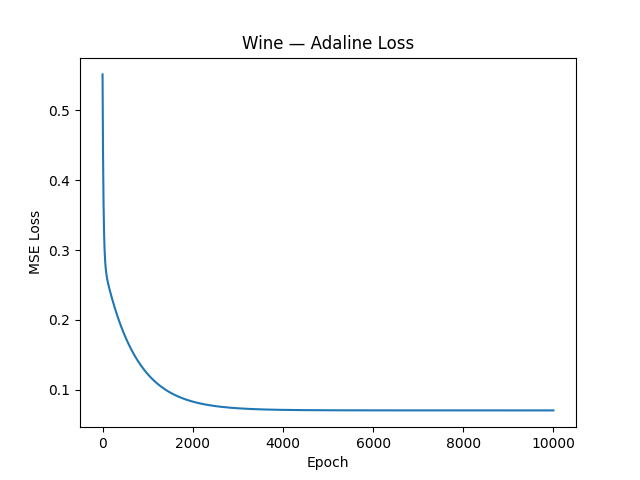
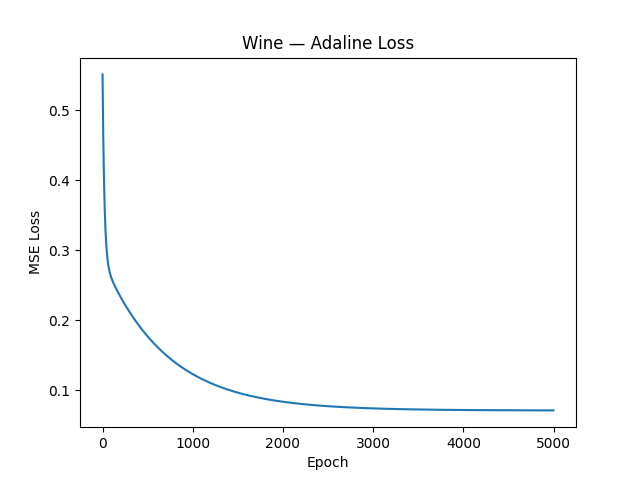
fixed stability issues

diff --git a/Assignment1/compare_losses.py b/Assignment1/compare_losses.py
@@ -17,15 +17,15 @@ This plots the adaline and logistic regression
 
 # wine data sets 
 X_wine, y_wine = load_wine_data()
-ada_wine = ModifiedAdalineGD(eta=0.01, n_iter=10000, random_state=1)
+ada_wine = ModifiedAdalineGD(eta=0.01, n_iter=5000, random_state=1)
 ada_wine.fit(X_wine, y_wine)
-log_wine = ModifiedLogisticRegressionGD(eta=0.01, n_iter=10000, random_state=1)
+log_wine = ModifiedLogisticRegressionGD(eta=0.01, n_iter=5000, random_state=1)
 log_wine.fit(X_wine, y_wine)
 
 X_iris, y_iris = load_iris_data()
-ada_iris = ModifiedAdalineGD(eta=0.01, n_iter=10000, random_state=1)
+ada_iris = ModifiedAdalineGD(eta=0.01, n_iter=5000, random_state=1)
 ada_iris.fit(X_iris, y_iris)
-log_iris = ModifiedLogisticRegressionGD(eta=0.01, n_iter=10000, random_state=1)
+log_iris = ModifiedLogisticRegressionGD(eta=0.01, n_iter=5000, random_state=1)
 log_iris.fit(X_iris, y_iris)
 
 X_cerberus, y_cerberus = c.load_iris_all()
@@ -41,11 +41,11 @@ class_names = np.array(["Iris-setosa", "Iris-versicolor", "Iris-virginica"])
 preds = c.predict_multiclass(X_cerberus, models, class_names)
 
 # Logistic regression SGD
-log_wine_sgd = LogisticRegressionSGD(eta=0.01, n_iter=10000, random_state=1)
+log_wine_sgd = LogisticRegressionSGD(eta=0.01, n_iter=5000, random_state=1)
 log_wine_sgd.fit(X_wine, y_wine)
 
 # Logistic regression mini-batch SGD
-log_wine_mini_sgd = LogisticMiniBatchSGD(eta=0.01, n_iter=10000, random_state=1)
+log_wine_mini_sgd = LogisticMiniBatchSGD(eta=0.01, n_iter=5000, random_state=1)
 log_wine_mini_sgd.fit(X_wine, y_wine)
 
 

diff --git a/Assignment1/logisticMiniBatchSGD.py b/Assignment1/logisticMiniBatchSGD.py
@@ -65,6 +65,9 @@ class LogisticMiniBatchSGD:
             for j in range(X.shape[0] // batch_size):
                 net_input = self.net_input(parsed[j])
                 output = self.activation(net_input)
+                # numerical stability fix
+                output = np.clip(output, 1e-10, 1 - 1e-10)
+
                 errors = (yparsed[j] - output)
                 self.w_ += self.eta * parsed[j].T.dot(errors) / parsed[j].shape[0]
                 loss = (-yparsed[j].dot(np.log(output)) - (1 - yparsed[j]).dot(np.log(1 - output))) / parsed[j].shape[0]
@@ -76,6 +79,9 @@ class LogisticMiniBatchSGD:
                 # last batch
                 net_input = self.net_input(last[0])
                 output = self.activation(net_input)
+                # numerical stability fix
+                output = np.clip(output, 1e-10, 1 - 1e-10)
+
                 errors = (ylast[0] - output)
                 self.w_ += self.eta * last[0].T.dot(errors) / last[0].shape[0]
                 loss = (-ylast[0].dot(np.log(output)) - (1 - ylast[0]).dot(np.log(1 - output))) / last[0].shape[0]

diff --git a/Assignment1/logisticRegressionSGD.py b/Assignment1/logisticRegressionSGD.py
@@ -65,9 +65,9 @@ class LogisticRegressionSGD:
         if y.ravel().shape[0] > 1:
             for xi, target in zip(X, y):
                 self._update_weights(xi, target)
-            else:
-                self._update_weights(X, y)
-            return self
+        else:
+            self._update_weights(X, y)
+        return self
     def _shuffle(self, X, y):
         """Shuffle training data"""
         r = self.rgen.permutation(len(y))
@@ -82,9 +82,12 @@ class LogisticRegressionSGD:
     def _update_weights(self, xi, target):
         """Apply LogisticRegression learning rule to update the weights"""
         output = self.activation(self.net_input(xi))
+        # numerical stability fix
+        output = np.clip(output, 1e-10, 1 - 1e-10)
+
         error = (target - output)
         self.w_ += self.eta * xi * (error)
-        loss = (target * (np.log(output))) - ((1 - target) * (np.log(1 - output)))
+        loss = (-target * (np.log(output))) - ((1 - target) * (np.log(1 - output)))
         return loss
     
     def net_input(self, X):
